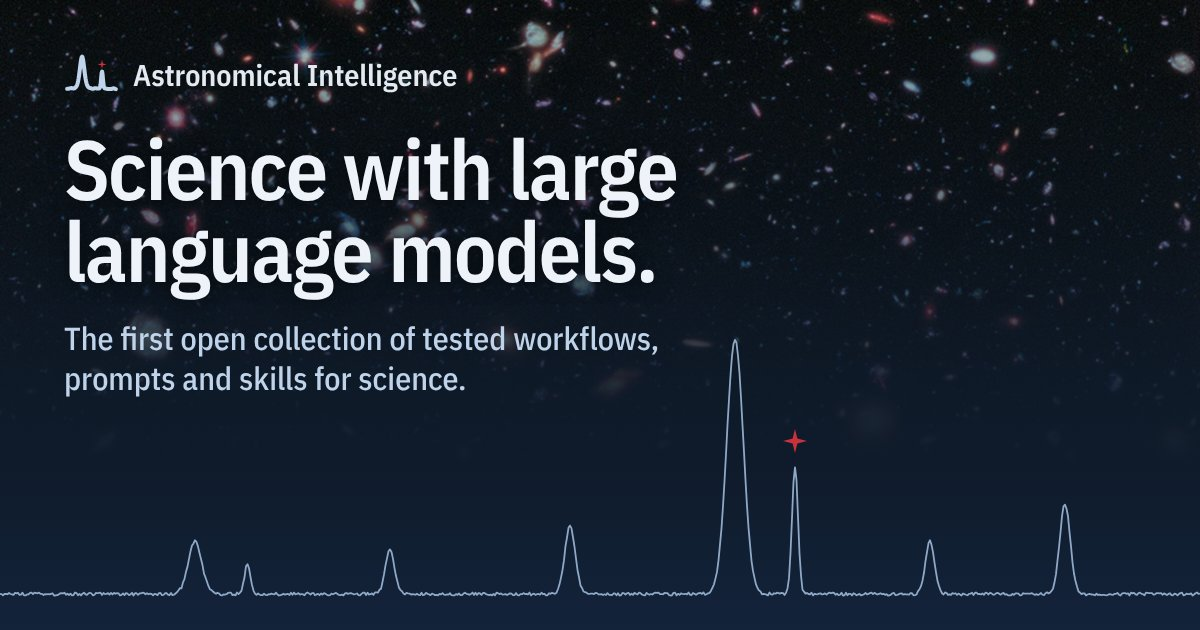
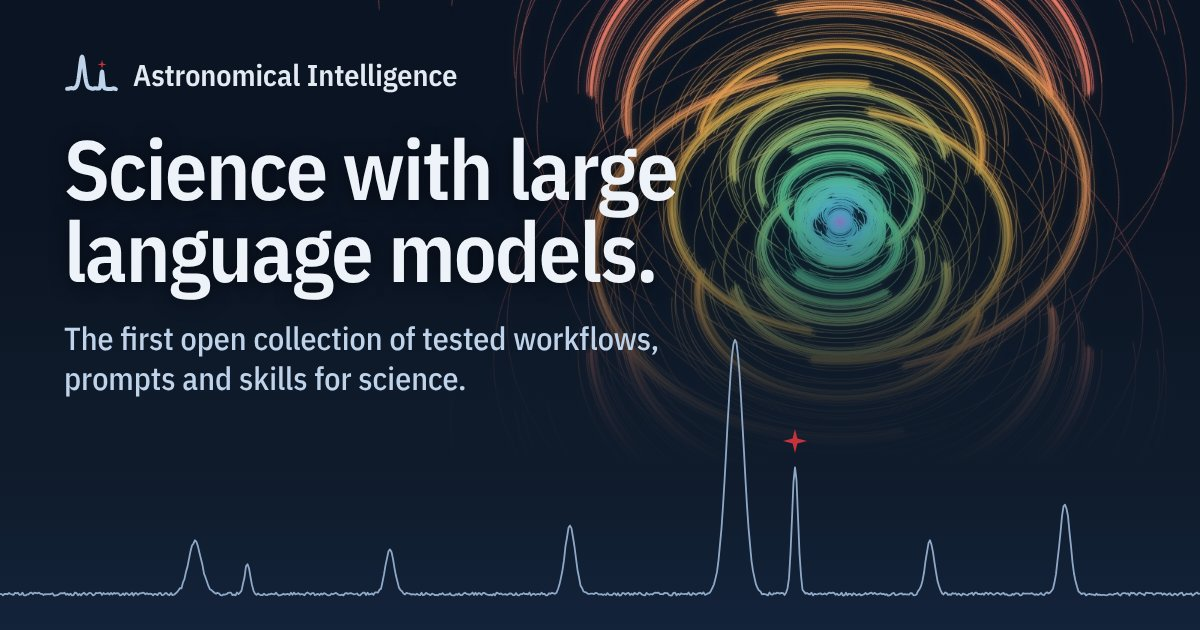
Home background: LOFAR uv-coverage; About trimmed
- Hero and social card now show the uv-coverage of the 38 Dutch LOFAR
  stations (12 h at declination +48 deg), drawn by tools/make_hero_uv.py
  from ASTRON's lofarantpos station positions; credit "LOFAR uv-coverage"
- Hubble XDF image removed; README and LICENSE-CONTENT.md updated
- About: drop the sentence on naming models and the note on fonts

Claude-Session: https://claude.ai/code/session_013acfVjsCXb1ToRzrKfavMg

diff --git a/styles/hero.css b/styles/hero.css
@@ -1,17 +1,18 @@
-/* Home hero background: the Hubble eXtreme Deep Field at the top,
-   fading into night blue behind the spectrum. Image: NASA/ESA, public domain. */
+/* Home hero background: the uv-coverage of the Dutch LOFAR stations (tools/make_hero_uv.py),
+   fading into night blue behind the spectrum. */
 .hero {
   background-image:
     linear-gradient(180deg,
-      rgba(10, 19, 32, 0.18) 0%,
-      rgba(10, 19, 32, 0.55) 30%,
-      rgba(15, 27, 43, 0.92) 58%,
+      rgba(10, 19, 32, 0) 0%,
+      rgba(10, 19, 32, 0.25) 32%,
+      rgba(15, 27, 43, 0.88) 60%,
       #0F1B2B 72%,
       #13233A 100%),
-    url("../images/hero-xdf.jpg");
+    url("../images/hero-uv.jpg");
   background-size: cover, cover;
-  background-position: center top, center top;
+  background-position: center top, right top;
   background-repeat: no-repeat;
+  background-color: #0A1320;
 }
 .hero-title, .hero-sub { text-shadow: 0 1px 18px rgba(5, 10, 18, 0.65); }
 .hero-credit {

diff --git a/tools/make_hero_uv.py b/tools/make_hero_uv.py
@@ -1,0 +1,62 @@
+"""Home background: uv-coverage of the real Dutch LOFAR array (24 core + 14 remote LBA stations, positions from
+ASTRON's lofarantpos), 12 h centred on transit, source at declination +48 deg.
+Tracks coloured by baseline length along the site's spectral palette (short = violet, long = red),
+by rank, so the colours are spread evenly over the 703 baselines.
+
+Needs: pip install lofarantpos matplotlib pillow
+Run from the repository root: python3 tools/make_hero_uv.py  -> images/hero-uv.jpg
+"""
+from pathlib import Path
+import numpy as np
+from PIL import Image, ImageFilter
+import matplotlib
+matplotlib.use("Agg")
+import matplotlib.pyplot as plt
+from matplotlib.colors import LinearSegmentedColormap
+from matplotlib.collections import LineCollection
+from lofarantpos.db import LofarAntennaDatabase
+
+W, H, NAVY = 1600, 896, "#0A1320"
+OUT = Path(__file__).resolve().parent.parent / "images"
+db = LofarAntennaDatabase()
+names = sorted(k for k in db.phase_centres if k[:2] in ("CS", "RS") and k.endswith("LBA"))
+xyz = np.array([db.phase_centres[k] for k in names]) / 1000.0          # km, ITRF/ETRS
+lon = np.arctan2(xyz[:, 1].mean(), xyz[:, 0].mean())
+dec = np.radians(48.0)
+h = np.linspace(-np.pi / 2, np.pi / 2, 400) - lon                        # Greenwich hour angle, +-6 h around local transit
+
+spectral = LinearSegmentedColormap.from_list("lines", ["#B48CF0", "#8EA6FF", "#5CC8E6", "#5ED29A", "#F2B44A", "#FF7A6E"])
+pairs = [(i, j) for i in range(len(xyz)) for j in range(i + 1, len(xyz))]
+allL = np.array([np.linalg.norm(xyz[j] - xyz[i]) for i, j in pairs])
+rank = {tuple(p): r / (len(pairs) - 1) for r, p in enumerate(np.array(pairs)[np.argsort(allL)].tolist())}
+segs, cols, lws = [], [], []
+lens = []
+for i in range(len(xyz)):
+    for j in range(i + 1, len(xyz)):
+        Bx, By, Bz = xyz[j] - xyz[i]
+        u = np.sin(h) * Bx + np.cos(h) * By
+        v = -np.sin(dec) * np.cos(h) * Bx + np.sin(dec) * np.sin(h) * By + np.cos(dec) * Bz
+        L = np.linalg.norm(xyz[j] - xyz[i]); lens.append(L)
+        c = spectral(rank[(i, j)])
+        a = 0.38 if L > 4 else 0.20
+        for s in (1, -1):
+            pts = np.column_stack([s * u, s * v]); seg = np.stack([pts[:-1], pts[1:]], axis=1)
+            segs.append(seg); cols.append(np.tile([c[0], c[1], c[2], a], (len(seg), 1))); lws.append(np.full(len(seg), 0.9 if L > 4 else 0.6))
+print(f"{len(names)} stations, {len(lens)} baselines, {min(lens):.2f}-{max(lens):.0f} km")
+
+def render(name, half):
+    f = plt.figure(figsize=(W / 100, H / 100), dpi=100)
+    ax = f.add_axes([0, 0, 1, 1]); ax.set_axis_off(); f.patch.set_facecolor(NAVY); ax.set_facecolor(NAVY)
+    ax.add_collection(LineCollection(np.concatenate(segs), colors=np.concatenate(cols), linewidths=np.concatenate(lws), capstyle="round"))
+    # frame: pattern centred at 70% across and 33% down, height = 2*half*1.5
+    hy = half * 1.55; hx = hy * W / H
+    ax.set_xlim(-0.70 * 2 * hx, 0.30 * 2 * hx); ax.set_ylim(-0.67 * 2 * hy, 0.33 * 2 * hy)
+    import io
+    buf = io.BytesIO(); f.savefig(buf, format="png", dpi=100, facecolor=NAVY); plt.close(f)
+    im = Image.open(buf).convert("RGB")
+    glow = im.filter(ImageFilter.GaussianBlur(6))
+    out = Image.blend(im, Image.eval(Image.blend(im, glow, 0.5), lambda x: min(255, int(x * 1.25))), 0.45)
+    out.save(OUT / f"{name}.jpg", quality=88, optimize=True, progressive=True)
+
+render("hero-uv", 45)   # core and inner remote stations; the outer tracks run off the frame
+print("wrote", OUT / "hero-uv.jpg")

diff --git a/README.md b/README.md
@@ -23,6 +23,7 @@ Source of [astronomicalintelligence.org](https://astronomicalintelligence.org): 
 | `_templates/workflows.ejs` | Layout of the lists (workflows, prompts, skills, ...) |
 | `*/_metadata.yml` | Per-section settings: FITS header filter and "How to cite" box |
 | `404.qmd` | Page shown for addresses that do not exist |
+| `tools/make_hero_uv.py` | Draws the home background (`images/hero-uv.jpg`) |
 | `tools/catalog_ids.py` | Gives each new contribution its catalogue number (AI W001, AI P001, ...); run by the publish workflow on every push to `main` |
 | `styles/types.css` | One colour per kind of contribution |
 | `styles/` | Fonts, colours (`light.scss`, `dark.scss`) and layout (`base.scss`) |
@@ -32,7 +33,7 @@ To contribute, see [contribute.qmd](contribute.qmd).
 
 ## Image credits
 
-`images/hero-xdf.jpg`: Hubble eXtreme Deep Field (HubbleSite release 2012-37). NASA, ESA, G. Illingworth, D. Magee, P. Oesch (UCSC), R. Bouwens (Leiden) and the HUDF09 Team. NASA images are in the public domain; the credit line is kept on the home page.
+`images/hero-uv.jpg`: uv-coverage of the 38 Dutch LOFAR stations (24 core, 14 remote; LBA phase centres from ASTRON's [lofarantpos](https://github.com/lofar-astron/lofar-antenna-positions)), 12 h centred on transit at declination +48°. Generated by `tools/make_hero_uv.py`.
 
 ## Licence
 

diff --git a/LICENSE-CONTENT.md b/LICENSE-CONTENT.md
@@ -11,5 +11,5 @@ reference to use.
 Code (scripts, filters, templates and code blocks in the pages) is licensed
 under the MIT licence: see [LICENSE](LICENSE).
 
-The background image `images/hero-xdf.jpg` is a NASA/ESA image in the public
-domain; see the README for the full credit.
+The home background `images/hero-uv.jpg` is drawn by `tools/make_hero_uv.py` from the
+public LOFAR station positions; see the README.
